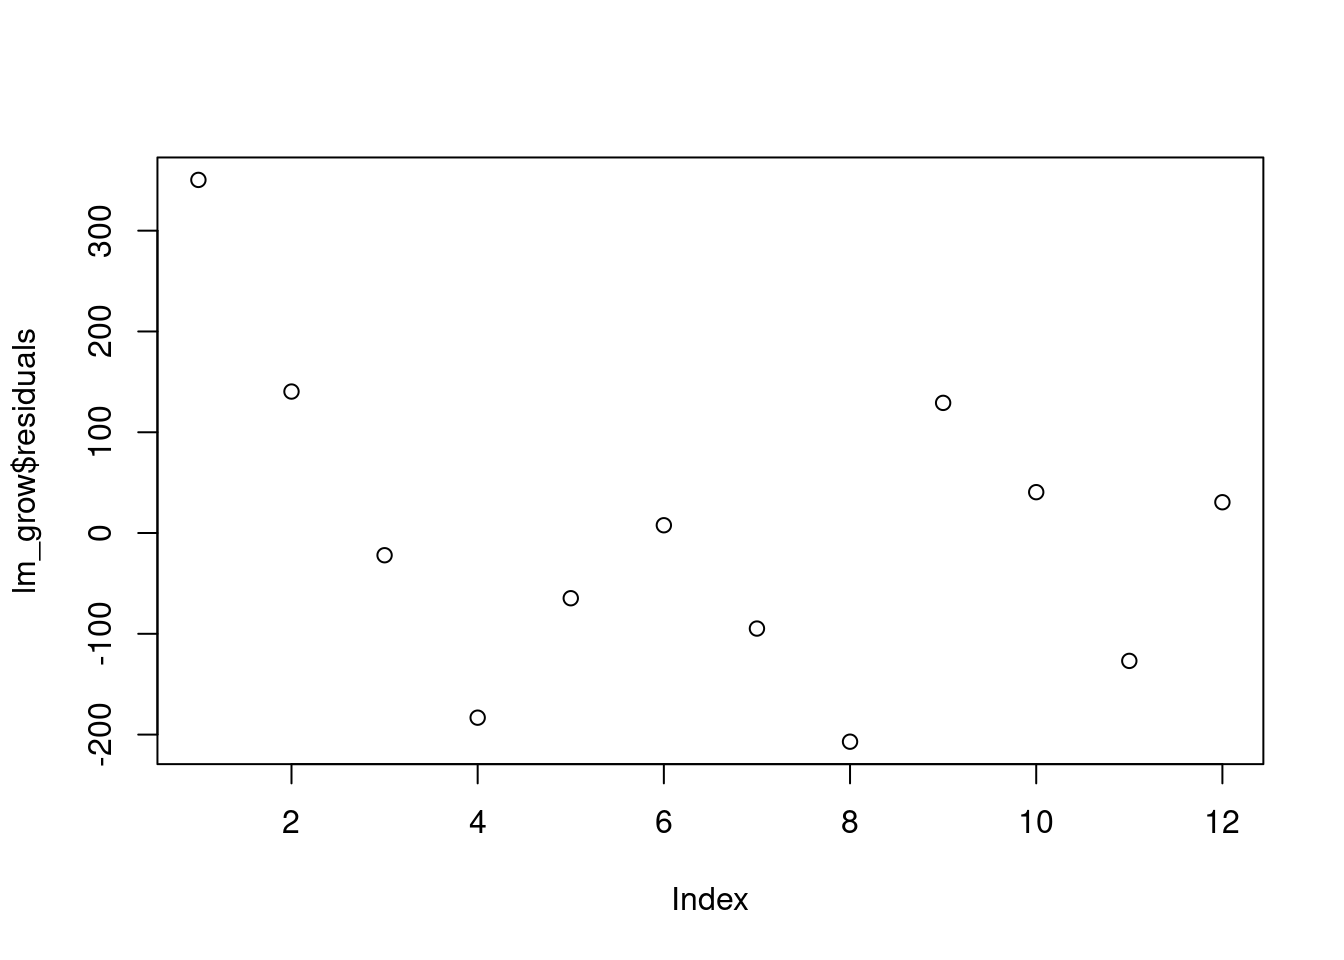
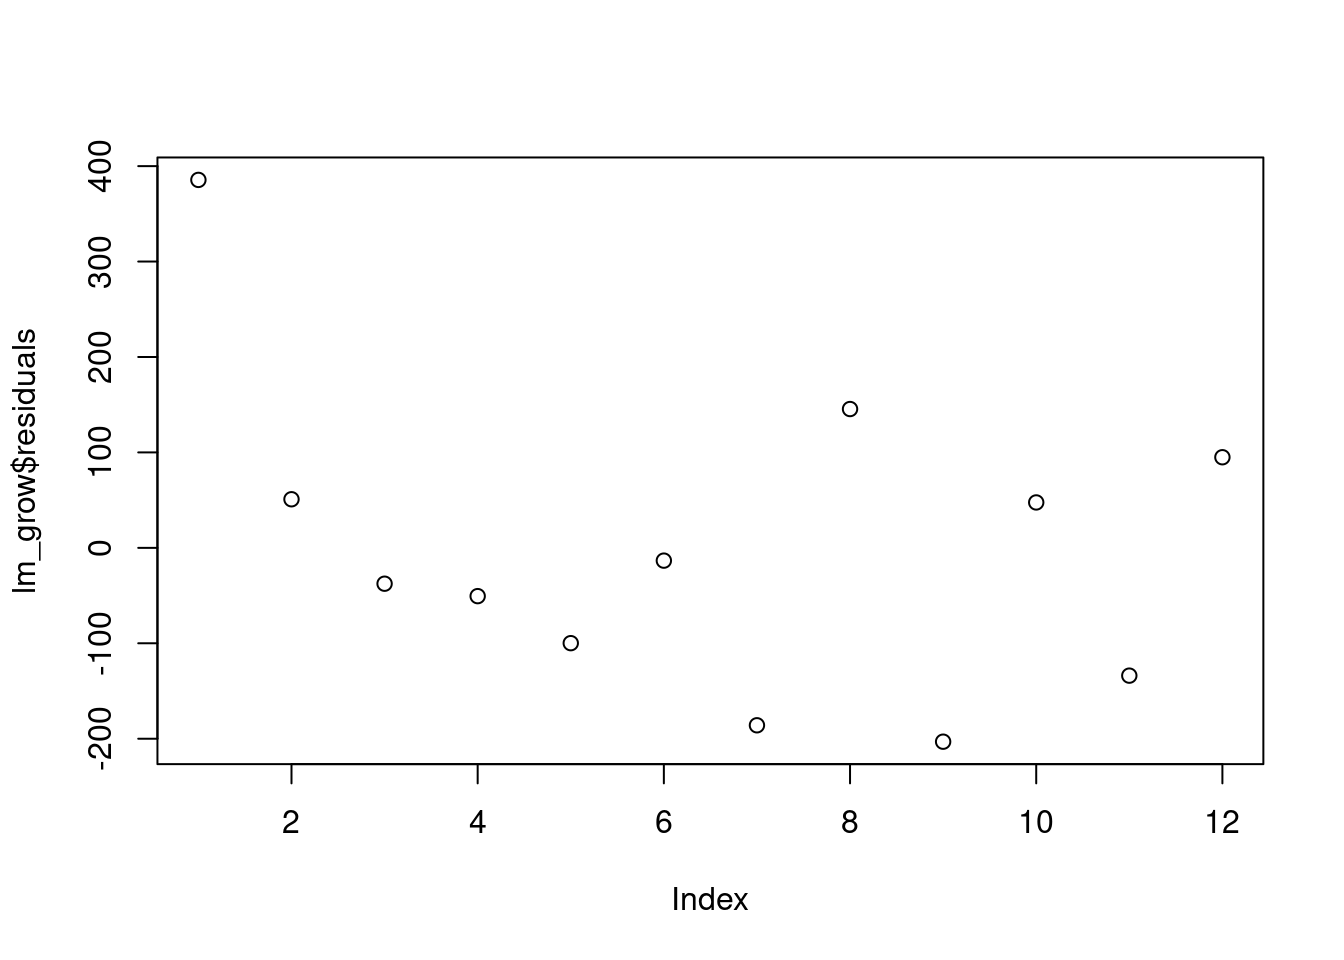
had the balance wrong

diff --git a/content/post/2022-05-21-what-student-information-helps-predict-success-in-their-courses/index.html b/content/post/2022-05-21-what-student-information-helps-predict-success-in-their-courses/index.html
@@ -29,10 +29,10 @@ The nitty gritty of how the data was joined and cleaned
 <p>The resulting data set gives the first obstacle, handling <code>NA</code> values for numeric variables. On the one hand a scalar response lends itself to an elegant set of predictive methods, but at the same time not having a high school GPA entry is likely a significant indicator of academic success. The same goes for whether a student took the ACT or not. Even worse, the percentage of respondents missing one or the other are close to a quarter or a third.</p>
 <pre class="r"><code>lapply(cs[,.(act_score, hs_gpa_entry)], \(x) {length(x)/length(x[which(is.na(x))])})</code></pre>
 <pre><code>## $act_score
-## [1] 24.8786
+## [1] 26.125
 ## 
 ## $hs_gpa_entry
-## [1] 32.27362</code></pre>
+## [1] 33.31884</code></pre>
 <p>For each variable we will answer two questions that help us decide what to do next.</p>
 <ol style="list-style-type: decimal">
 <li>Is non-response predictive of course success?<br />
@@ -58,7 +58,7 @@ The nitty gritty of how the data was joined and cleaned
 ##  Pearson&#39;s Chi-squared test with Yates&#39; continuity correction
 ## 
 ## data:  table(copy(cs)[, .(act_na = is.na(act_score), success)])
-## X-squared = 25.256, df = 1, p-value = 5.021e-07</code></pre>
+## X-squared = 17.788, df = 1, p-value = 2.469e-05</code></pre>
 <p>We can see that the distribution of successful courses among students who have an ACT score is significantly different from those who did not report an ACT score. In fact, ACT reporting students are ~10% more likely to succeed.</p>
 <p>We will now look at the scalar portion of the variable by plotting the distribution of ACT scores against the official grades earned.</p>
 <pre class="r"><code>copy(cs) |&gt;
@@ -126,30 +126,30 @@ summary(m1)</code></pre>
 ## 
 ## Deviance Residuals: 
 ##     Min       1Q   Median       3Q      Max  
-## -1.6830  -1.3553   0.8240   0.9391   1.3794  
+## -2.1758   0.4437   0.6105   0.7812   1.1951  
 ## 
 ## Coefficients:
-##                                 Estimate Std. Error z value Pr(&gt;|z|)    
-## (Intercept)                     0.267987   0.101069   2.652 0.008013 ** 
-## act_score_factor(0,20]          0.479640   0.145058   3.307 0.000945 ***
-## act_score_factor(20,23]         0.454296   0.143064   3.175 0.001496 ** 
-## act_score_factor(23,26]         0.138969   0.143963   0.965 0.334391    
-## act_score_factor(26,36]        -0.235107   0.145834  -1.612 0.106928    
-## hs_gpa_entry_factor(0.21,3.06]  0.005787   0.160164   0.036 0.971180    
-## hs_gpa_entry_factor(3.06,3.42]  0.183397   0.159372   1.151 0.249837    
-## hs_gpa_entry_factor(3.42,3.76]  0.376187   0.159420   2.360 0.018288 *  
-## hs_gpa_entry_factor(3.76,553]   0.390841   0.159927   2.444 0.014531 *  
-## hardship_score1                -0.281806   0.055104  -5.114 3.15e-07 ***
-## hardship_score2                -0.204608   0.056637  -3.613 0.000303 ***
-## hardship_score3                -0.502012   0.053537  -9.377  &lt; 2e-16 ***
+##                                Estimate Std. Error z value Pr(&gt;|z|)    
+## (Intercept)                     0.91743    0.12320   7.447 9.57e-14 ***
+## act_score_factor(0,20]          0.15679    0.18300   0.857  0.39157    
+## act_score_factor(20,23]         0.24677    0.18168   1.358  0.17438    
+## act_score_factor(23,26]         0.01324    0.18362   0.072  0.94253    
+## act_score_factor(26,36]        -0.08667    0.18796  -0.461  0.64473    
+## hs_gpa_entry_factor(0.21,3.06] -0.25929    0.19736  -1.314  0.18891    
+## hs_gpa_entry_factor(3.06,3.42]  0.10000    0.19790   0.505  0.61335    
+## hs_gpa_entry_factor(3.42,3.76]  0.54155    0.19961   2.713  0.00667 ** 
+## hs_gpa_entry_factor(3.76,553]   1.10434    0.20298   5.441 5.31e-08 ***
+## hardship_score1                -0.34949    0.06815  -5.128 2.93e-07 ***
+## hardship_score2                -0.28039    0.06907  -4.059 4.92e-05 ***
+## hardship_score3                -0.61313    0.06405  -9.573  &lt; 2e-16 ***
 ## ---
 ## Signif. codes:  0 &#39;***&#39; 0.001 &#39;**&#39; 0.01 &#39;*&#39; 0.05 &#39;.&#39; 0.1 &#39; &#39; 1
 ## 
 ## (Dispersion parameter for binomial family taken to be 1)
 ## 
-##     Null deviance: 17041  on 13115  degrees of freedom
-## Residual deviance: 16745  on 13104  degrees of freedom
-## AIC: 16769
+##     Null deviance: 12002  on 11034  degrees of freedom
+## Residual deviance: 11493  on 11023  degrees of freedom
+## AIC: 11517
 ## 
 ## Number of Fisher Scoring iterations: 4</code></pre>
 <pre class="r"><code>?anova.glm
@@ -164,10 +164,10 @@ anova(m1, test = &quot;Chisq&quot;)</code></pre>
 ## 
 ## 
 ##                     Df Deviance Resid. Df Resid. Dev  Pr(&gt;Chi)    
-## NULL                                13115      17040              
-## act_score_factor     4  141.166     13111      16899 &lt; 2.2e-16 ***
-## hs_gpa_entry_factor  4   56.376     13107      16843 1.672e-11 ***
-## hardship_score       3   98.358     13104      16745 &lt; 2.2e-16 ***
+## NULL                                11034      12002              
+## act_score_factor     4    45.20     11030      11957 3.611e-09 ***
+## hs_gpa_entry_factor  4   363.44     11026      11594 &lt; 2.2e-16 ***
+## hardship_score       3   100.24     11023      11493 &lt; 2.2e-16 ***
 ## ---
 ## Signif. codes:  0 &#39;***&#39; 0.001 &#39;**&#39; 0.01 &#39;*&#39; 0.05 &#39;.&#39; 0.1 &#39; &#39; 1</code></pre>
 <pre class="r"><code>test_res &lt;- predict(m1, cs_test, type = &quot;response&quot;)
@@ -180,26 +180,26 @@ caret::confusionMatrix(test_res |&gt; as.factor(),
 ## 
 ##           Reference
 ## Prediction    0    1
-##          0   66   47
-##          1 1119 2047
+##          0    4    1
+##          1  637 2117
 ##                                           
-##                Accuracy : 0.6444          
-##                  95% CI : (0.6277, 0.6608)
-##     No Information Rate : 0.6386          
-##     P-Value [Acc &gt; NIR] : 0.2509          
+##                Accuracy : 0.7688          
+##                  95% CI : (0.7526, 0.7844)
+##     No Information Rate : 0.7677          
+##     P-Value [Acc &gt; NIR] : 0.4567          
 ##                                           
-##                   Kappa : 0.0414          
+##                   Kappa : 0.0088          
 ##                                           
 ##  Mcnemar&#39;s Test P-Value : &lt;2e-16          
 ##                                           
-##             Sensitivity : 0.05570         
-##             Specificity : 0.97755         
-##          Pos Pred Value : 0.58407         
-##          Neg Pred Value : 0.64656         
-##              Prevalence : 0.36139         
-##          Detection Rate : 0.02013         
-##    Detection Prevalence : 0.03446         
-##       Balanced Accuracy : 0.51663         
+##             Sensitivity : 0.006240        
+##             Specificity : 0.999528        
+##          Pos Pred Value : 0.800000        
+##          Neg Pred Value : 0.768700        
+##              Prevalence : 0.232331        
+##          Detection Rate : 0.001450        
+##    Detection Prevalence : 0.001812        
+##       Balanced Accuracy : 0.502884        
 ##                                           
 ##        &#39;Positive&#39; Class : 0               
 ## </code></pre>

diff --git a/content/post/2022-05-23-are-success-rates-improving-or-getting-worse/index.html b/content/post/2022-05-23-are-success-rates-improving-or-getting-worse/index.html
@@ -25,7 +25,7 @@ tags: []
 ##  Pearson&#39;s Chi-squared test
 ## 
 ## data:  table(copy(course_enrollments)[, .(term_code, success)])
-## X-squared = 34.986, df = 5, p-value = 1.514e-06</code></pre>
+## X-squared = 62.296, df = 5, p-value = 4.072e-12</code></pre>
 <p>There is a significant difference between success rates between terms. Assuming the term codes are sequential, can we discern a specific pattern of increasing or decreasing from the success rates? To answer this question, I will use a simple linear regression model built on the ratio of successful students per term, and judge goodness of fit based on <span class="math inline">\(R^2\)</span>, the test statistic / p. value, and plotting the residuals to seek a pattern in errors.</p>
 <pre class="r"><code>lm_grow &lt;- 
 copy(course_enrollments)[,.N,.(term_code, success)][,percent := N/sum(N)] |&gt;
@@ -39,19 +39,19 @@ lm_grow |&gt; summary()</code></pre>
 ## 
 ## Residuals:
 ##     Min      1Q  Median      3Q     Max 
-## -207.05 -102.82   -7.16   62.69  350.37 
+## -203.12 -108.39  -25.49   61.92  385.55 
 ## 
 ## Coefficients:
 ##             Estimate Std. Error t value Pr(&gt;|t|)    
-## (Intercept)  1280.38     124.03  10.323 2.74e-06 ***
-## term_code     -88.59      29.17  -3.037   0.0141 *  
-## successTRUE   791.83      99.62   7.948 2.33e-05 ***
+## (Intercept)   797.63     129.37   6.165 0.000166 ***
+## term_code     -74.51      30.42  -2.449 0.036803 *  
+## successTRUE  1225.33     103.92  11.792 8.94e-07 ***
 ## ---
 ## Signif. codes:  0 &#39;***&#39; 0.001 &#39;**&#39; 0.01 &#39;*&#39; 0.05 &#39;.&#39; 0.1 &#39; &#39; 1
 ## 
-## Residual standard error: 172.6 on 9 degrees of freedom
-## Multiple R-squared:  0.8894, Adjusted R-squared:  0.8649 
-## F-statistic:  36.2 on 2 and 9 DF,  p-value: 4.969e-05</code></pre>
+## Residual standard error: 180 on 9 degrees of freedom
+## Multiple R-squared:  0.9416, Adjusted R-squared:  0.9286 
+## F-statistic: 72.52 on 2 and 9 DF,  p-value: 2.817e-06</code></pre>
 <pre class="r"><code>lm_grow$residuals |&gt; plot()</code></pre>
 <p><img src="{{< blogdown/postref >}}index_files/figure-html/unnamed-chunk-3-1.png" width="672" /></p>
 <pre class="r"><code>copy(course_enrollments)[,.N,.(term_code, success)][,preds := predict(lm_grow, .SD)] |&gt;
@@ -72,19 +72,19 @@ lm_grow |&gt; summary()</code></pre>
 ##     .N, .(term_code, success)][, `:=`(percent, N/sum(N)), term_code][(success)])
 ## 
 ## Residuals:
-##          1          2          3          4          5          6 
-##  0.0206999 -0.0003973  0.0196472 -0.0058983 -0.0314505 -0.0026010 
+##         1         2         3         4         5         6 
+##  0.035134  0.002564  0.005659 -0.036908 -0.020797  0.014348 
 ## 
 ## Coefficients:
 ##              Estimate Std. Error t value Pr(&gt;|t|)    
-## (Intercept)  0.665999   0.019996  33.307 4.85e-06 ***
-## term_code   -0.006431   0.005134  -1.252    0.279    
+## (Intercept)  0.790016   0.026632  29.664 7.69e-06 ***
+## term_code   -0.007350   0.006839  -1.075    0.343    
 ## ---
 ## Signif. codes:  0 &#39;***&#39; 0.001 &#39;**&#39; 0.01 &#39;*&#39; 0.05 &#39;.&#39; 0.1 &#39; &#39; 1
 ## 
-## Residual standard error: 0.02148 on 4 degrees of freedom
-## Multiple R-squared:  0.2817, Adjusted R-squared:  0.1021 
-## F-statistic: 1.569 on 1 and 4 DF,  p-value: 0.2786</code></pre>
+## Residual standard error: 0.02861 on 4 degrees of freedom
+## Multiple R-squared:  0.2241, Adjusted R-squared:  0.03012 
+## F-statistic: 1.155 on 1 and 4 DF,  p-value: 0.343</code></pre>
 <pre class="r"><code>lm_grow$residuals |&gt; plot()</code></pre>
 <p><img src="{{< blogdown/postref >}}index_files/figure-html/unnamed-chunk-4-1.png" width="672" /></p>
 <pre class="r"><code>copy(course_enrollments)[,.N,.(term_code, success)

diff --git a/content/post/2022-05-24-predciting-student-outcomes/index.html b/content/post/2022-05-24-predciting-student-outcomes/index.html
@@ -520,11 +520,15 @@ caret::confusionMatrix(preds |&gt; as.factor(),
 ##        &#39;Positive&#39; Class : 0               
 ## </code></pre>
 <p>Accuracy of .76 isn’t bad, though the Kappa is only middling. Let’s see if a Random Forest algorithm can improve the scores.</p>
-<pre class="r"><code>balance = concat_tr[,.N, success]$N[2] - concat_tr[,.N, success]$N[1]
+<pre class="r"><code>balance = concat_tr[,.N, success]$N[2] - concat_tr[,.N, success]$N[1] 
 set.seed(100)
-concat_tr &lt;- rbind(concat_tr, concat_tr[(success)][sample(.N, balance, replace = T)])
+concat_tr &lt;- rbind(concat_tr, concat_tr[!(success)][sample(.N, balance, replace = T)])
 
-cl &lt;- parallel::makeForkCluster(nnodes = parallel::detectCores()-1)
+concat_tr[,.N, success]</code></pre>
+<pre><code>##    success    N
+## 1:   FALSE 8560
+## 2:    TRUE 8560</code></pre>
+<pre class="r"><code>cl &lt;- parallel::makeForkCluster(nnodes = parallel::detectCores()-1)
 doParallel::registerDoParallel(cl)
 
 md_rf &lt;- caret::train(y = concat_tr$success |&gt; as.factor(),
@@ -550,26 +554,26 @@ caret::confusionMatrix(preds |&gt; as.factor(),
 ## 
 ##           Reference
 ## Prediction FALSE TRUE
-##      FALSE   724  351
-##      TRUE    415 1834
+##      FALSE   805  623
+##      TRUE    334 1562
 ##                                           
-##                Accuracy : 0.7696          
-##                  95% CI : (0.7549, 0.7838)
+##                Accuracy : 0.7121          
+##                  95% CI : (0.6964, 0.7274)
 ##     No Information Rate : 0.6573          
-##     P-Value [Acc &gt; NIR] : &lt; 2e-16         
+##     P-Value [Acc &gt; NIR] : 8.711e-12       
 ##                                           
-##                   Kappa : 0.4815          
+##                   Kappa : 0.3975          
 ##                                           
-##  Mcnemar&#39;s Test P-Value : 0.02283         
+##  Mcnemar&#39;s Test P-Value : &lt; 2.2e-16       
 ##                                           
-##             Sensitivity : 0.6356          
-##             Specificity : 0.8394          
-##          Pos Pred Value : 0.6735          
-##          Neg Pred Value : 0.8155          
+##             Sensitivity : 0.7068          
+##             Specificity : 0.7149          
+##          Pos Pred Value : 0.5637          
+##          Neg Pred Value : 0.8238          
 ##              Prevalence : 0.3427          
-##          Detection Rate : 0.2178          
-##    Detection Prevalence : 0.3234          
-##       Balanced Accuracy : 0.7375          
+##          Detection Rate : 0.2422          
+##    Detection Prevalence : 0.4296          
+##       Balanced Accuracy : 0.7108          
 ##                                           
 ##        &#39;Positive&#39; Class : FALSE           
 ## </code></pre>
